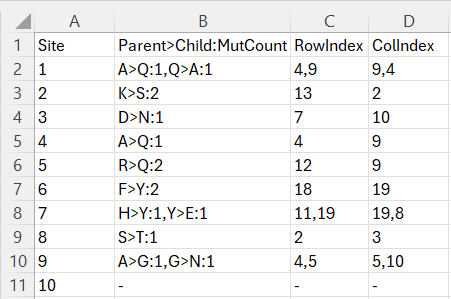
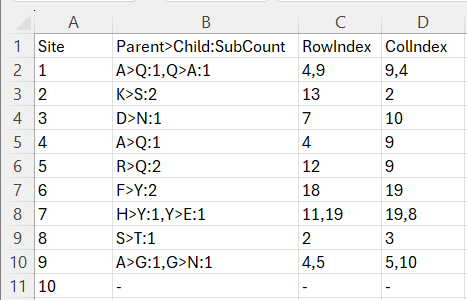
refactor: change the column name

diff --git a/src/recur/utils/files.py b/src/recur/utils/files.py
@@ -287,7 +287,7 @@ class FileWriter(object):
 
         # fn_path = os.path.join(mut_matrix_dir, "mutation_matrices.tsv")
         mut_matricex_tuple = sorted([(pos, mut) for pos, mut in mut_matrices.items()])
-        colname = ["Site", "Parent>Child:MutCount", "RowIndex", "ColIndex"]
+        colname = ["Site", "Parent>Child:SubCount", "RowIndex", "ColIndex"]
         accum_mutation_matrix = np.zeros((20, 20), dtype=np.int64)
         with open(mut_matrix_path, "w") as writer:
             writer.write("\t".join(colname) + "\n")
